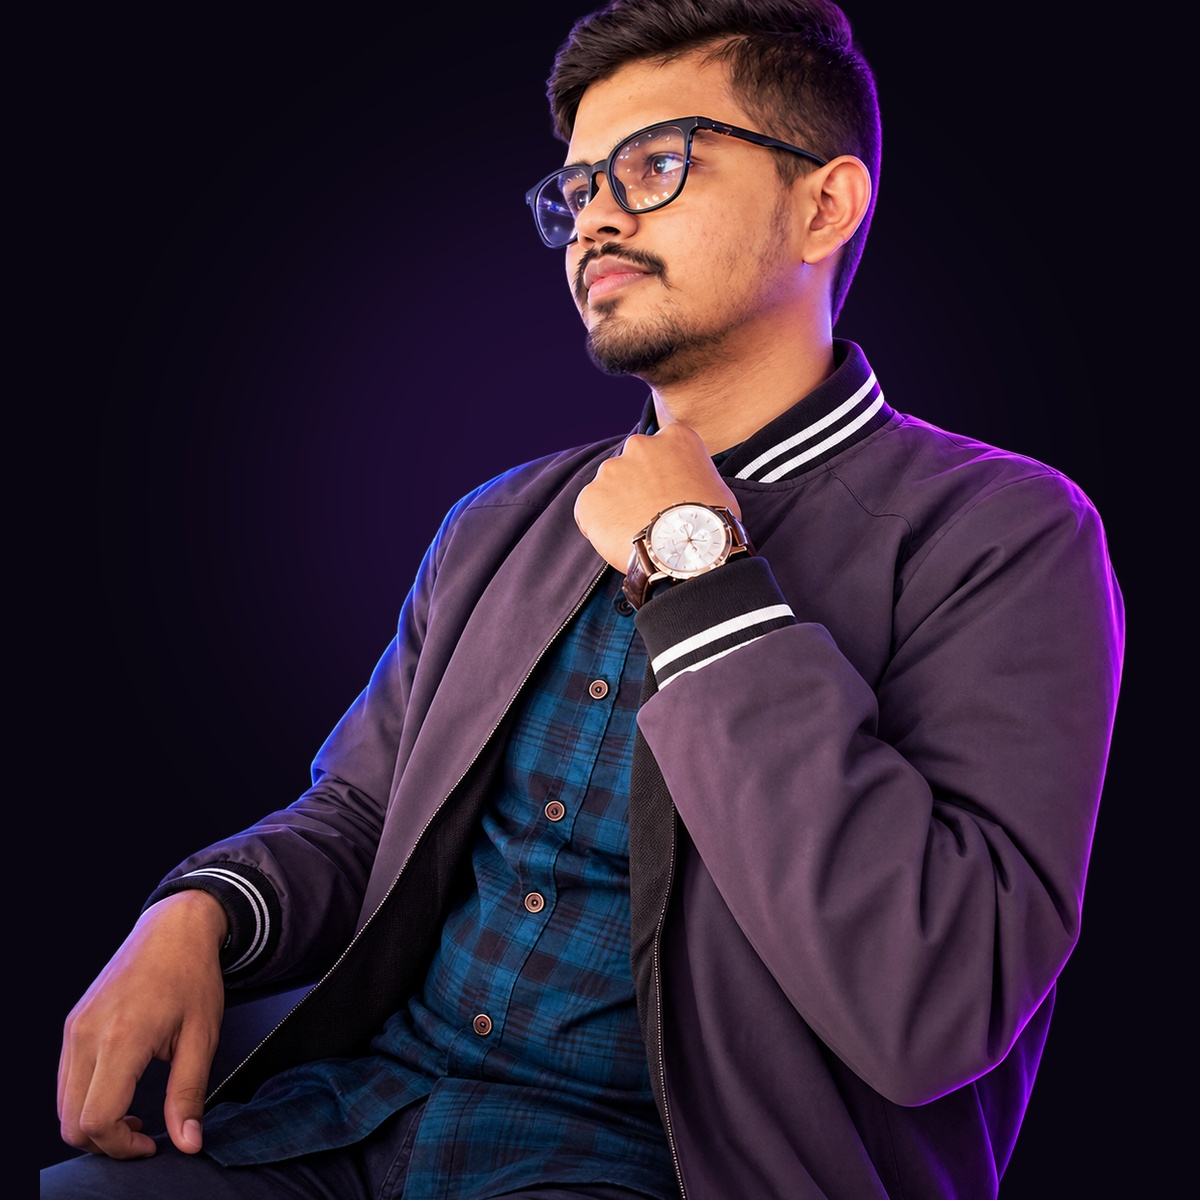
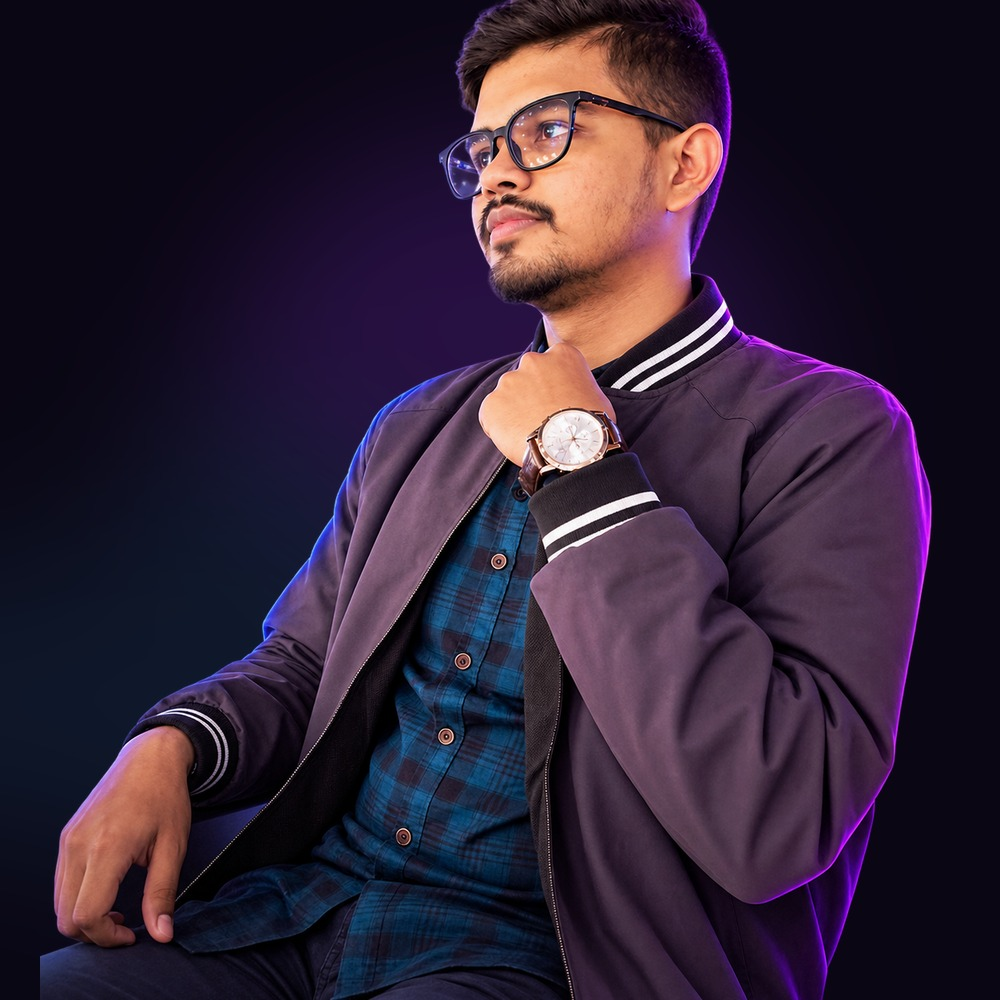
feat: add root layout with font configurations, SEO metadata, and structured data schema

Changed region(s): [[0.0, 0.0, 0.961, 1.0]]

diff --git a/src/app/layout.js b/src/app/layout.js
@@ -114,18 +114,10 @@ export const metadata = {
       {
         url: "https://udittiwari.in/og-image.jpg",
         secureUrl: "https://udittiwari.in/og-image.jpg",
-        width: 1200,
-        height: 630,
+        width: 1000,
+        height: 1000,
         type: "image/jpeg",
         alt: "Udit Kumar Tiwari - Full Stack Developer & AI Specialist",
-      },
-      {
-        url: "https://udittiwari.in/assets/udit-kumar-tiwari.jpg",
-        secureUrl: "https://udittiwari.in/assets/udit-kumar-tiwari.jpg",
-        width: 600,
-        height: 600,
-        type: "image/jpeg",
-        alt: "Udit Kumar Tiwari - Portrait",
       },
     ],
   },
@@ -248,8 +240,8 @@ export default function RootLayout({ children }) {
         <meta property="og:image" content="https://udittiwari.in/og-image.jpg" />
         <meta property="og:image:secure_url" content="https://udittiwari.in/og-image.jpg" />
         <meta property="og:image:type" content="image/jpeg" />
-        <meta property="og:image:width" content="1200" />
-        <meta property="og:image:height" content="630" />
+        <meta property="og:image:width" content="1000" />
+        <meta property="og:image:height" content="1000" />
         <link rel="image_src" href="https://udittiwari.in/og-image.jpg" />
       </head>
       <body className={`${inter.variable} ${jetbrainsMono.variable} ${spaceGrotesk.variable} ${caveat.variable} antialiased font-sans`}>
